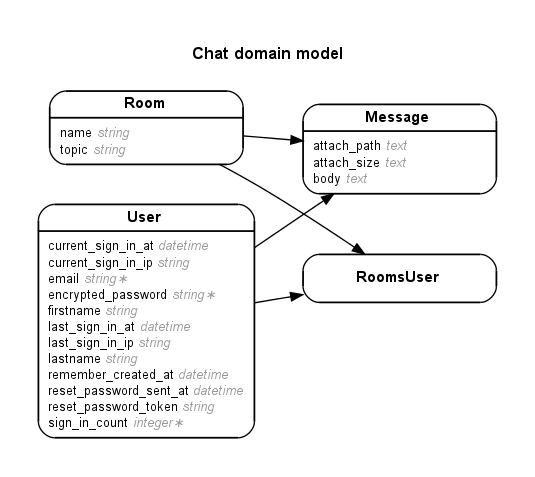
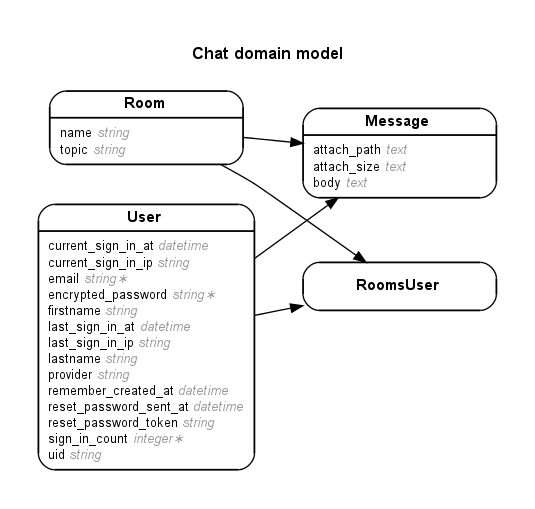
fix

Changed region(s): [[0.0598, 0.1761, 0.9271, 0.9392], [0.3589, 0.0881, 0.6579, 0.1468]]

diff --git a/app/assets/javascripts/application.js b/app/assets/javascripts/application.js
@@ -43,5 +43,6 @@ $(document).ready(function(){
 });
 
 function HtmlEncode(val) {
+
     return $("<div/>").text(val).html();
 }

diff --git a/app/models/user.rb b/app/models/user.rb
@@ -1,6 +1,33 @@
+# == Schema Information
+#
+# Table name: users
+#
+#  id                     :integer          not null, primary key
+#  email                  :string(255)      default(""), not null
+#  encrypted_password     :string(255)      default(""), not null
+#  reset_password_token   :string(255)
+#  reset_password_sent_at :datetime
+#  remember_created_at    :datetime
+#  sign_in_count          :integer          default(0), not null
+#  current_sign_in_at     :datetime
+#  last_sign_in_at        :datetime
+#  current_sign_in_ip     :string(255)
+#  last_sign_in_ip        :string(255)
+#  created_at             :datetime
+#  updated_at             :datetime
+#  firstname              :string(255)
+#  lastname               :string(255)
+#  provider               :string(255)
+#  uid                    :string(255)
+#
+# Indexes
+#
+#  index_users_on_email                 (email) UNIQUE
+#  index_users_on_reset_password_token  (reset_password_token) UNIQUE
+#
+
 class User < ActiveRecord::Base
   has_many :message
-  has_many :room
   devise :omniauthable, :omniauth_providers => [:github,:facebook]
   has_many :rooms_users
   # Include default devise modules. Others available are:

diff --git a/spec/factories/users.rb b/spec/factories/users.rb
@@ -1,3 +1,31 @@
+# == Schema Information
+#
+# Table name: users
+#
+#  id                     :integer          not null, primary key
+#  email                  :string(255)      default(""), not null
+#  encrypted_password     :string(255)      default(""), not null
+#  reset_password_token   :string(255)
+#  reset_password_sent_at :datetime
+#  remember_created_at    :datetime
+#  sign_in_count          :integer          default(0), not null
+#  current_sign_in_at     :datetime
+#  last_sign_in_at        :datetime
+#  current_sign_in_ip     :string(255)
+#  last_sign_in_ip        :string(255)
+#  created_at             :datetime
+#  updated_at             :datetime
+#  firstname              :string(255)
+#  lastname               :string(255)
+#  provider               :string(255)
+#  uid                    :string(255)
+#
+# Indexes
+#
+#  index_users_on_email                 (email) UNIQUE
+#  index_users_on_reset_password_token  (reset_password_token) UNIQUE
+#
+
 # Read about factories at https://github.com/thoughtbot/factory_girl
 
 FactoryGirl.define do

diff --git a/spec/models/user_spec.rb b/spec/models/user_spec.rb
@@ -1,3 +1,31 @@
+# == Schema Information
+#
+# Table name: users
+#
+#  id                     :integer          not null, primary key
+#  email                  :string(255)      default(""), not null
+#  encrypted_password     :string(255)      default(""), not null
+#  reset_password_token   :string(255)
+#  reset_password_sent_at :datetime
+#  remember_created_at    :datetime
+#  sign_in_count          :integer          default(0), not null
+#  current_sign_in_at     :datetime
+#  last_sign_in_at        :datetime
+#  current_sign_in_ip     :string(255)
+#  last_sign_in_ip        :string(255)
+#  created_at             :datetime
+#  updated_at             :datetime
+#  firstname              :string(255)
+#  lastname               :string(255)
+#  provider               :string(255)
+#  uid                    :string(255)
+#
+# Indexes
+#
+#  index_users_on_email                 (email) UNIQUE
+#  index_users_on_reset_password_token  (reset_password_token) UNIQUE
+#
+
 require 'spec_helper'
 
 describe User do

diff --git a/spec/factories/messages.rb b/spec/factories/messages.rb
@@ -1,3 +1,22 @@
+# == Schema Information
+#
+# Table name: messages
+#
+#  id          :integer          not null, primary key
+#  user_id     :integer
+#  body        :text
+#  attach_path :text
+#  attach_size :text
+#  room_id     :integer
+#  created_at  :datetime
+#  updated_at  :datetime
+#
+# Indexes
+#
+#  index_messages_on_room_id  (room_id)
+#  index_messages_on_user_id  (user_id)
+#
+
 # Read about factories at https://github.com/thoughtbot/factory_girl
 
 FactoryGirl.define do

diff --git a/app/models/message.rb b/app/models/message.rb
@@ -1,3 +1,22 @@
+# == Schema Information
+#
+# Table name: messages
+#
+#  id          :integer          not null, primary key
+#  user_id     :integer
+#  body        :text
+#  attach_path :text
+#  attach_size :text
+#  room_id     :integer
+#  created_at  :datetime
+#  updated_at  :datetime
+#
+# Indexes
+#
+#  index_messages_on_room_id  (room_id)
+#  index_messages_on_user_id  (user_id)
+#
+
 class Message < ActiveRecord::Base
   belongs_to :user
   belongs_to :room

diff --git a/spec/models/message_spec.rb b/spec/models/message_spec.rb
@@ -1,3 +1,22 @@
+# == Schema Information
+#
+# Table name: messages
+#
+#  id          :integer          not null, primary key
+#  user_id     :integer
+#  body        :text
+#  attach_path :text
+#  attach_size :text
+#  room_id     :integer
+#  created_at  :datetime
+#  updated_at  :datetime
+#
+# Indexes
+#
+#  index_messages_on_room_id  (room_id)
+#  index_messages_on_user_id  (user_id)
+#
+
 require 'spec_helper'
 
 describe Message do

diff --git a/app/models/room.rb b/app/models/room.rb
@@ -1,4 +1,15 @@
+# == Schema Information
+#
+# Table name: rooms
+#
+#  id         :integer          not null, primary key
+#  name       :string(255)
+#  topic      :string(255)
+#  created_at :datetime
+#  updated_at :datetime
+#
+
 class Room < ActiveRecord::Base
   has_many :message
-  has_many :rooms_users
+  has_many :rooms_user
 end

diff --git a/spec/factories/rooms.rb b/spec/factories/rooms.rb
@@ -1,3 +1,14 @@
+# == Schema Information
+#
+# Table name: rooms
+#
+#  id         :integer          not null, primary key
+#  name       :string(255)
+#  topic      :string(255)
+#  created_at :datetime
+#  updated_at :datetime
+#
+
 # Read about factories at https://github.com/thoughtbot/factory_girl
 
 FactoryGirl.define do

diff --git a/spec/factories/rooms_users.rb b/spec/factories/rooms_users.rb
@@ -1,3 +1,14 @@
+# == Schema Information
+#
+# Table name: rooms_users
+#
+#  id         :integer          not null, primary key
+#  user_id    :integer
+#  room_id    :integer
+#  created_at :datetime
+#  updated_at :datetime
+#
+
 # Read about factories at https://github.com/thoughtbot/factory_girl
 
 FactoryGirl.define do

diff --git a/spec/models/rooms_user_spec.rb b/spec/models/rooms_user_spec.rb
@@ -1,3 +1,14 @@
+# == Schema Information
+#
+# Table name: rooms_users
+#
+#  id         :integer          not null, primary key
+#  user_id    :integer
+#  room_id    :integer
+#  created_at :datetime
+#  updated_at :datetime
+#
+
 require 'spec_helper'
 
 describe RoomsUser do

diff --git a/app/models/rooms_user.rb b/app/models/rooms_user.rb
@@ -1,2 +1,14 @@
+# == Schema Information
+#
+# Table name: rooms_users
+#
+#  id         :integer          not null, primary key
+#  user_id    :integer
+#  room_id    :integer
+#  created_at :datetime
+#  updated_at :datetime
+#
+
 class RoomsUser < ActiveRecord::Base
+
 end
